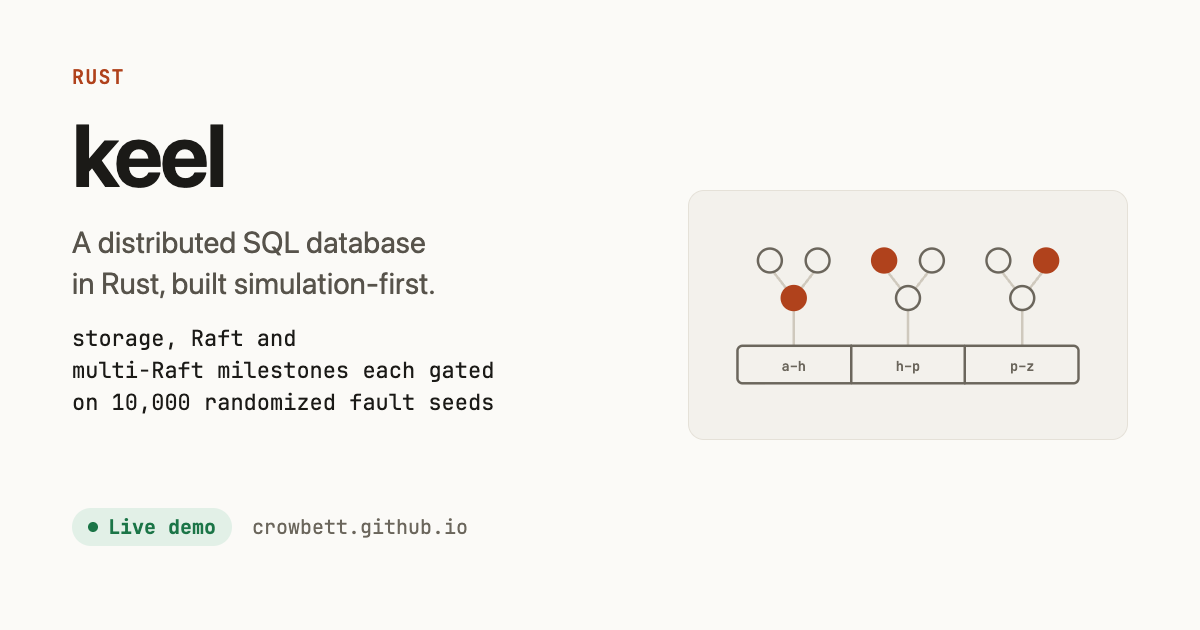
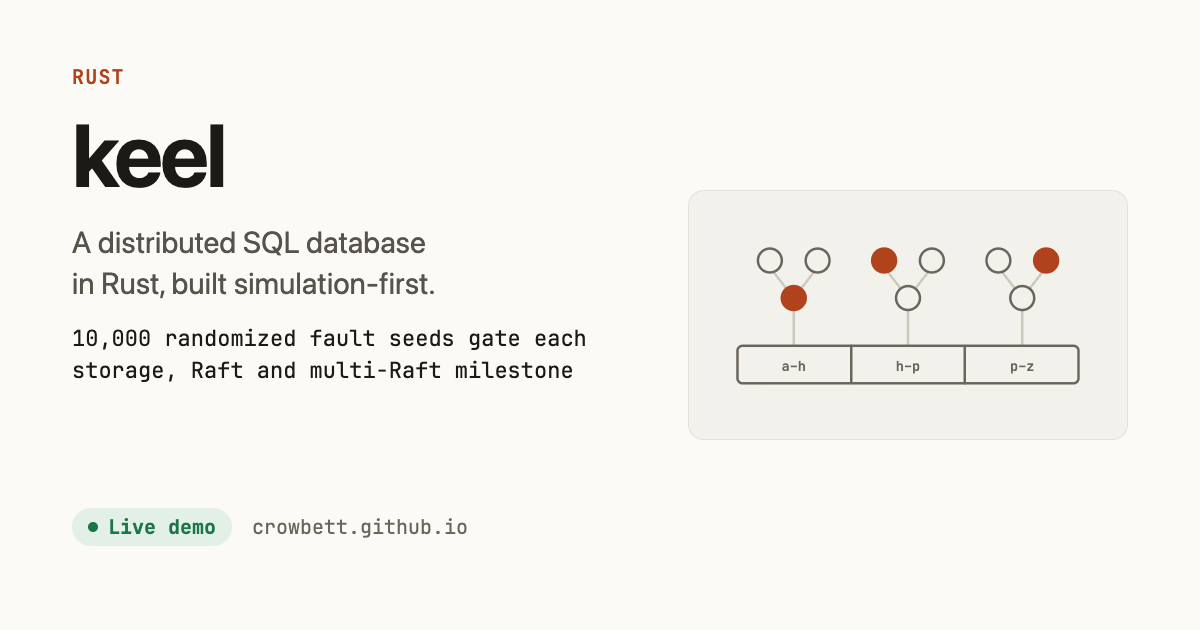
Lead every metric with its number and drop the planned demo box (V8 round 1)

Changed region(s): [[0.0617, 0.5127, 0.4933, 0.6635]]

diff --git a/web/assets/site.css b/web/assets/site.css
@@ -375,10 +375,6 @@ h3 { font-size: 1.125rem; margin: var(--sp-6) 0 var(--sp-2); }
 .demo-head h2 { display: flex; align-items: center; gap: var(--sp-2); margin: 0; font-size: var(--t-small); letter-spacing: 0; }
 .demo-head h2::before { content: ""; width: 8px; height: 8px; border-radius: 50%; background: var(--live); }
 .demo-spec { font-family: var(--mono); font-size: var(--t-label); color: var(--text-3); }
-.demo.planned { background: none; box-shadow: none; border-style: dashed; border-color: var(--line-strong); }
-.demo.planned .demo-head { border-bottom-style: dashed; border-color: var(--line-strong); }
-.demo.planned .demo-head h2::before { box-sizing: border-box; background: none; border: 1.5px solid var(--control-line); }
-.demo.planned .demo-note { font-family: var(--sans); font-size: var(--t-small); color: var(--text-2); }
 .demo-bar { display: flex; flex-wrap: wrap; gap: var(--sp-3) var(--sp-4); align-items: center; }
 .demo-load { display: flex; align-items: center; gap: var(--sp-3); margin-top: var(--sp-4); }
 .demo:has(.demo-load) .demo-note, .demo[data-demo-error] .demo-note { display: none; }
@@ -419,6 +415,8 @@ h3 { font-size: 1.125rem; margin: var(--sp-6) 0 var(--sp-2); }
 
 .foot { display: flex; flex-wrap: wrap; justify-content: space-between; gap: var(--sp-2) var(--sp-5); margin-top: var(--section); padding-block: var(--sp-5) var(--sp-7); border-top: 1px solid var(--line); color: var(--text-3); font-size: var(--t-small); }
 .foot p { margin: 0; }
+body:has(.notfound) { display: flex; flex-direction: column; min-height: 100vh; }
+body:has(.notfound) main { flex: 1 0 auto; }
 
 @media (prefers-reduced-motion: reduce) {
   *, *::before, *::after { transition: none !important; animation: none !important; scroll-behavior: auto !important; }

diff --git a/templates/project.html b/templates/project.html
@@ -38,13 +38,6 @@
       <p class="demo-status" data-demo-status role="status" aria-live="polite"></p>
     </section>
     <script type="module" src="/assets/demo.js"></script>
-    {{else if eq .Demo "planned"}}
-    <section class="demo planned" aria-labelledby="demo-title">
-      <div class="demo-head">
-        <h2 id="demo-title">Demo</h2>
-      </div>
-      <p class="demo-note">A live in-browser demo of this project is being built.</p>
-    </section>
     {{end}}
 
     <div class="body">{{.Body}}</div>

diff --git a/internal/site/content.go b/internal/site/content.go
@@ -21,7 +21,8 @@ import (
 // Front matter is "key: value" lines between "---" fences. Keys:
 // title, tagline, lang, tags (comma list), repo (URL; empty = private source),
 // demo (live | planned | none), order (int; lower first), metric (one measured
-// headline number, quoted from the repo, with its source in metric_source),
+// headline number, quoted from the repo, with its source in metric_source;
+// it leads with the number or a capital so the cards read as one set),
 // demo_try (one line on what a visitor can do in the live demo; live only).
 type Project struct {
 	Slug         string
@@ -123,6 +124,8 @@ func parseProject(slug string, src []byte) (Project, error) {
 		return p, fmt.Errorf("demo_try is required for a live demo and only allowed on one")
 	case p.Metric != "" && p.MetricSource == "":
 		return p, fmt.Errorf("metric needs metric_source: every number on the site cites where it was measured")
+	case p.Metric != "" && !strings.ContainsRune("0123456789~ABCDEFGHIJKLMNOPQRSTUVWXYZ", rune(p.Metric[0])):
+		return p, fmt.Errorf("metric must lead with its number or a capital, got %q", p.Metric)
 	}
 	var html bytes.Buffer
 	if err := goldmark.Convert(body, &html); err != nil {

diff --git a/internal/site/site_test.go b/internal/site/site_test.go
@@ -41,6 +41,7 @@ func TestParseProject(t *testing.T) {
 func TestParseProjectRejects(t *testing.T) {
 	cases := map[string]string{
 		"metric without source": strings.Replace(goodProject, "metric_source: bench.md\n", "", 1),
+		"lowercase metric":      strings.Replace(goodProject, "metric: 5 ops/s", "metric: saturates at 5 ops/s", 1),
 		"bad demo state":        strings.Replace(goodProject, "demo: planned", "demo: soon", 1),
 		"live without demo_try": strings.Replace(goodProject, "demo: planned", "demo: live", 1),
 		"demo_try not live":     strings.Replace(goodProject, "demo: planned", "demo: planned\ndemo_try: Try it.", 1),

diff --git a/docs/design.md b/docs/design.md
@@ -124,7 +124,7 @@ One frame for every demo, built by the site (`templates/project.html`, `web/asse
 - **Loading:** the worker streams the fetch and reports decompressed bytes. GitHub Pages sends .wasm gzipped, so Content-Length is the compressed size and useless for progress; the page compares received bytes with the raw size from the lock (`data-bytes`) and shows a determinate bar and a percentage, then "Starting…" while the binary instantiates. The button reads "Loading…"; the note gives way to the bar. Without `data-bytes` (the smoke page) the bar is indeterminate and counts KB. Screen readers get one status ("Downloading the demo…"), not every percent.
 - **Running:** the mount, full frame width; the bar and note go away. Focus moves to the first control the demo renders, or to the mount.
 - **Error:** the status becomes a `--danger-tint` panel above the button, "The demo failed to start." in `--danger` then the message verbatim. The start button turns into "Try again" (one action, not two buttons) and takes focus; it starts a fresh worker.
-- **Planned:** the same frame, dashed and unfilled, hollow dot, heading "Demo", one sentence. Every project page has the same shape.
+- **No demo yet:** no frame. The page is evidence plus prose; a dashed "being built" box was the most unfinished-looking thing on the site (V8 round 1), and the facts column already leaves Demo out.
 
 ## What we will not do
 
@@ -160,3 +160,4 @@ No photo, illustration, mascot, emoji section markers or stock icons. No gradien
 - 2026-10-24 V3b round 9: "maybe". MAJOR: (1) the replay's two scales were unmarked, so denied looked ~3× allowed under a "10×" title; (2) kvlite's drawing (one box fanning out to child boxes) read as a B-tree, the opposite of bitcask; (3) on phones the wide chart left the allowed lane ~25 px high. Fixes: a labelled reference per lane (peak denied rate from the trace, the limit); kvlite redrawn as its page describes it: a keydir table whose entries point at offsets inside one append-only log strip of segments, the active segment at the tail filling, the oldest segment unpointed (all dead), labelled keydir / active / append-only segments; a tall 320×240 drawing of the same run for phones with the allowed lane the taller one. Minors: limit, peak and lane rules drawn over the wipe so the scale is there from frame one; four small cards make a 2×2 at three columns instead of 3 + a lone sideways card. Not taken: re-encoding the ratelimitd card like the replay (asked in rounds 6-9; the drawings share one outline vocabulary across all eight projects, and the card shows the fallback, not the attack), `::first-letter` capitals on metrics (a metric may start with a unit such as "p99"; filed for the copy owner instead), dropping "runs in your browser" (the cards are read by people who skip the hero). Verified on the shots at 390 and 1280 in both themes: peak, attack and limit labels clear of each other and of the bars, one drawing visible per width, kvlite reads as keydir plus log, the small grid ends on a 2×2. The first desktop shots showed the replay blank: a beyond-viewport capture restarted its wipe, so e2e now grows the viewport to the page, finishes every animation, then captures. A unit test holds the peak label to the tallest denied bucket.
 - 2026-10-24 V10: `demo_try` rendered on the live feature cards between the metric and the foot, as a run-in "Try it" head plus the sentence (no hanging indent: at 390 px a hanging indent would leave the sentence a ~40-character column beside a short label). Only on home cards: the project page already opens on the demo with its own controls and copy, and the 404's run buttons are one word each. Every live card shows it by construction: the build rejects a live project without `demo_try`, and the card template renders it whenever it is set.
 - 2026-10-25 V9: edgecache and jobrun drawings now show one behaviour each that its page states, like ratelimitd's fallback and kvlite's active segment. edgecache's old drawing and motion (miss, origin, fill, hit) were any cache's; it now draws "request collapsing with a detached leader": three clients funnel into the cache and one accent fetch ("one fetch") goes to origin; in motion, two requests wait at the funnel while the leader fetches, then all three return. jobrun draws "`SELECT ... FOR UPDATE SKIP LOCKED`": a Postgres table whose first two rows are locked by two workers, and a third worker's claim hops past them and locks the next free row (labels workers / postgres / skip locked; the lock grows in from `scale(0.001)` after the claim arrives). Fresh eyes (screenshots only, no copy) round 1 named A "request coalescing / request collapsing / single-flight" and B "Postgres SKIP LOCKED job-queue claiming", both high confidence; the filled claiming worker read as maybe not a worker, so it is now an accent outline like the others. Round 2 named both again, high confidence. Not taken: a drawn response path and a cold-miss marker on edgecache (the motion carries the wait and return; more arrows would bury the one fetch), per-lock ownership lines on jobrun (the worker lines already end at those rows).
+- 2026-10-25 V8 round 1 (fresh eyes, screenshots plus motion contact sheets; V3b: "maybe, leaning yes on the idea, no on the name"). MAJOR: (1) the metric lines mixed casing and keel's, the first card, was a lowercase sentence rather than a figure ("storage, Raft and multi-Raft milestones each gated on 10,000…"; jobrun and strata also started lowercase); (2) quorum's page showed a dashed "being built" demo box, the most unfinished-looking thing on the site. Fixes: keel, jobrun and strata metrics reworded to lead with their number, same facts and sources (strata's now follows docs/features.md: "0 open edges after repairing a 3DBenchy with 5,868 facets removed and 239 flipped"), and the build rejects a metric that does not lead with a number, `~` or a capital; a project with no live demo has no frame (§Demo frame). Minor taken: the 404's footer sits at the bottom of the window. Not taken: one colour for all three ratelimitd demo charts, and the kvlite demo's phone controls (demo UI, demo track); dropping "runs in your browser" from live cards (decided in V3b round 9); an interactive hero (the WASM on every home visit, rejected in V3b round 4); the source link shown twice on a project page (the facts link is the short form, the foot the full one, by design). The reviewer's "labels fade in before their bars" was an artefact of the first contact sheet, which set each animation to its own fraction; the sheet now puts the replay on one clock.

diff --git a/content/projects/jobrun.md b/content/projects/jobrun.md
@@ -7,7 +7,7 @@ repo: https://github.com/crowbett/jobrun
 demo: live
 demo_try: Type a cron expression and a time zone to see the next ten runs, or set a retry policy and see the delay after each failed attempt.
 order: 6
-metric: saturates at ~1,030 jobs/s completed with the default 16 workers
+metric: ~1,030 jobs/s completed at saturation with the default 16 workers
 metric_source: README results, one Windows 11 box, Postgres 17, medians of 3 runs
 ---
 `SELECT ... FOR UPDATE SKIP LOCKED` plus `LISTEN/NOTIFY` does the dispatching. On top: fenced leases,

diff --git a/content/projects/strata.md b/content/projects/strata.md
@@ -7,7 +7,7 @@ repo:
 demo: live
 demo_try: Slice a calibration model or your own STL, OBJ or 3MF, then scrub through its layers' toolpaths.
 order: 8
-metric: a 3DBenchy with 5,868 facets removed and 239 flipped repairs to 0 open edges, volume within 0.5%
+metric: 0 open edges after repairing a 3DBenchy with 5,868 facets removed and 239 flipped, volume within 0.5%
 metric_source: docs/features.md, mesh repair (measured)
 ---
 strata slices STL models into G-code on the iPad itself: perimeters, infill, a Metal build-plate view,

diff --git a/content/projects/keel.md b/content/projects/keel.md
@@ -7,7 +7,7 @@ repo:
 demo: live
 demo_try: Run a seed, run it again for the same digest bit for bit, then try another seed's fault schedule.
 order: 2
-metric: storage, Raft and multi-Raft milestones each gated on 10,000 randomized fault seeds
+metric: 10,000 randomized fault seeds gate each storage, Raft and multi-Raft milestone
 metric_source: README milestone table
 ---
 Every line of keel's data plane runs unmodified inside a deterministic simulator that owns time,
